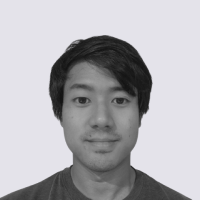
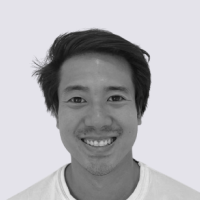
update team and copy-text

Changed region(s): [[0.0, 0.12, 1.0, 1.0]]

diff --git a/pages/about.vue b/pages/about.vue
@@ -2,15 +2,15 @@
   const aboutUs = [
     {
       title: "Vision",
-      desc: "We believe in regenerative futures. This means cultivating an economy that goes beyond sustaining the current state of our environment and aims to actively restore and regenerate ecosystems, communities, and the planet as a whole.",
+      desc: "We believe in a world where humans live in harmony with nature. This means cultivating an economy that goes beyond sustaining the current state of our environment and aims to actively restore and regenerate ecosystems, communities, and the planet as a whole.",
     },
     {
       title: "Values",
-      desc: "Collaboration, transparency, and education are at the core of our operations. Through open innovation initiatives, academic and community partnerships, we’re dedicated to engaging and empowering communities to be active participants in creating regenerative futures.",
+      desc: "We’re guided by the principles of ecological stewardship to create resilient systems that are self-sustaining and regenerative, rather than extractive and degrading. The health and well-being of the planet and all its inhabitants are at the forefront of all decision-making processes.",
     },
     {
       title: "Community",
-      desc: "Community plays a vital role in achieving our vision. We are committed to involving stakeholder communities in our efforts to create regenerative systems and recognize the importance of social responsibility for progress.",
+      desc: "Collaboration, transparency, and education are at the core of our operations. Through open-innovation initiatives, academic and community partnerships, we’re dedicated to engaging and empowering communities to be active participants in cultivating regenerative futures.",
     },
   ];
 </script>
@@ -42,9 +42,10 @@
           <h2>Mission</h2>
           <p>
             Our mission is to build and enable circular economy systems in
-            Thailand to reduce waste and address the global climate crisis.
-            We’re committed to regenerative design and production practices that
-            tend to the well-being of people and the natural world.
+            Thailand to reduce waste, restore ecosystems and address the global
+            climate crisis. We’re committed to regenerative design and
+            production practices that tend to the well-being of people and the
+            natural world.
           </p>
         </div>
       </div>
@@ -107,7 +108,10 @@
             height="100%"
             class="rounded-2xl max-h-[500px]"
           />
-          <p>Nathakit Sae-Tan</p>
+          <div>
+            <p class="font-bold">Nathakit Sae-Tan</p>
+            <p>Chief Innovation Officer</p>
+          </div>
         </div>
         <div class="w-full h-full grid gap-4">
           <img
@@ -117,7 +121,10 @@
             height="100%"
             class="rounded-2xl max-h-[500px]"
           />
-          <p>Nika Hedrick</p>
+          <div>
+            <p class="font-bold">Nika Hedrick</p>
+            <p>Chief Executive Officer</p>
+          </div>
         </div>
         <div class="w-full h-full grid gap-4">
           <img
@@ -127,7 +134,23 @@
             height="100%"
             class="rounded-2xl max-h-[500px]"
           />
-          <p>Makhawee Sukawatano</p>
+          <div>
+            <p class="font-bold">Makhawee Sukawatano</p>
+            <p>Chief Product Officer</p>
+          </div>
+        </div>
+        <div class="w-full h-full grid gap-4">
+          <img
+            src="~/assets/images/team/anya.png"
+            alt="Anya"
+            width="100%"
+            height="100%"
+            class="rounded-2xl max-h-[500px]"
+          />
+          <div>
+            <p class="font-bold">Anya Muangkote</p>
+            <p>Chief Design Officer</p>
+          </div>
         </div>
       </div>
     </div>

diff --git a/pages/index.vue b/pages/index.vue
@@ -33,7 +33,7 @@
         <div class="grid gap-4">
           <h1>Systems change, not climate change</h1>
           <div>
-            <!-- <p class="text-2xl mb-2">Grow better materials with nature.</p> -->
+            <p class="text-2xl mb-2">Our Future is Regenerative.</p>
             <p class="pr-0 sm:pr-20">
               Join us in revolutionizing the way we design, produce and consume
               everyday materials to build regenerative futures.
@@ -50,8 +50,8 @@
     <div class="grid gap-8">
       <div class="grid grid-cols-none sm:grid-cols-2">
         <h2>
-          We’re transforming underutilized by-products into high-value
-          biomaterials.
+          We’re transforming underutilized by-products and invasive plant
+          species into high-value biomaterials.
         </h2>
       </div>
       <div class="w-full h-full">
@@ -117,8 +117,8 @@
       <div class="grid grid-cols-none sm:grid-cols-2 gap-4">
         <p class="font-sans text-base sm:text-xl font-medium">
           The health and well-being of the planet and all its inhabitants are
-          connected and interdependent. Nurturing and restoring ecosystems and
-          communities is essential to creating a regenerative future.
+          interdependent. Nurturing and restoring ecosystems and communities are
+          essential foundations to creating a regenerative future.
         </p>
         <p>
           We recognize that the impacts of climate change are not felt equally
